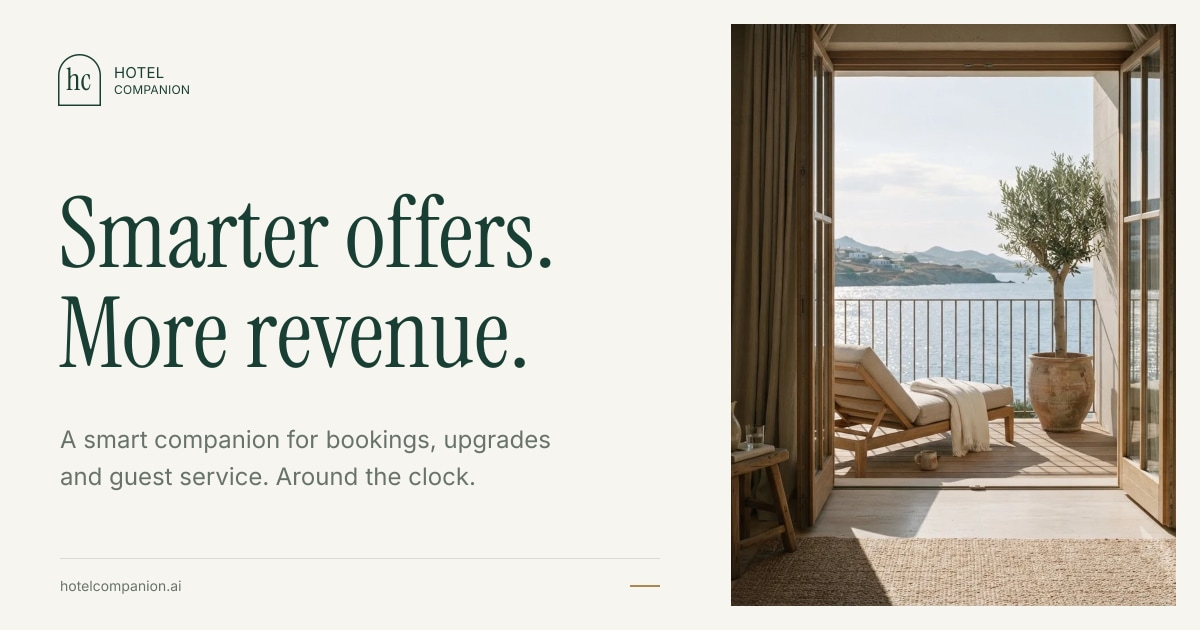
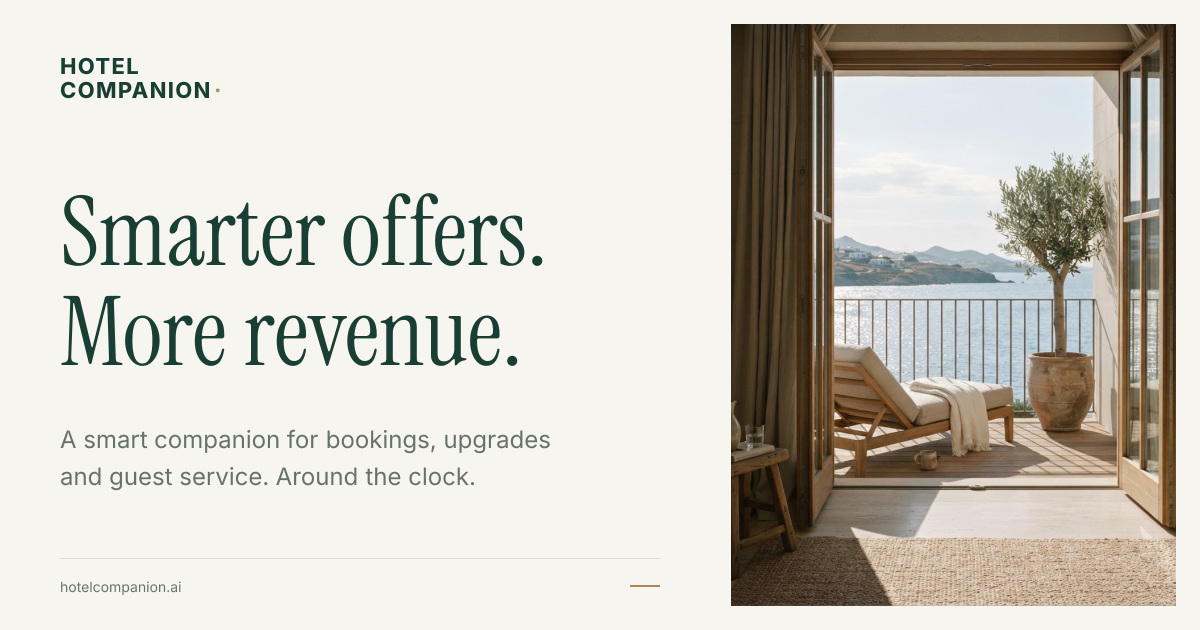
Restore original Companion identity and start guest showcase on rooms

diff --git a/src/components/site-chrome.css b/src/components/site-chrome.css
@@ -1,7 +1,7 @@
-.hc-site-header{--text:#193f35;--text-faint:#67736a;position:fixed;inset:0 0 auto;z-index:80;height:88px;color:#193f35;background:#f7f5eff5;border-bottom:1px solid #daddd1;-webkit-backdrop-filter:blur(18px);backdrop-filter:blur(18px);font-family:var(--font-sans),sans-serif;color-scheme:light}.hc-site-nav{position:relative;display:flex;align-items:center;justify-content:space-between;gap:25px;width:min(1328px,calc(100% - 80px));height:88px;margin:auto}.hc-site-header a{text-decoration:none}.hc-site-wordmark{display:inline-flex;align-items:center;gap:10px;color:#193f35;min-height:44px;flex-shrink:0}.hc-site-monogram{border:1px solid #193f35;border-radius:19px 19px 0 0;width:34px;height:40px;display:grid;place-items:center;font:400 22px var(--font-editorial),serif;letter-spacing:.04em}.hc-site-wordmark>span:last-child{font-size:11px;line-height:1.1;letter-spacing:.02em;font-weight:500}.hc-site-wordmark small{display:block;font-size:8px;margin-top:3px;letter-spacing:.02em}.hc-site-desktop-links{display:flex;align-items:center;gap:24px}.hc-site-desktop-links a{font-size:12px;color:#193f35;display:flex;align-items:center;min-height:44px;position:relative;white-space:nowrap}.hc-site-desktop-links>a:after,.hc-product-nav>a:after{content:'';position:absolute;bottom:4px;left:0;right:0;height:1px;transform:scaleX(0);transform-origin:left;background:#aa8750;transition:transform .25s}.hc-site-desktop-links a[aria-current=page]:after,.hc-site-desktop-links a:hover:after{transform:scaleX(1)}.hc-site-nav-actions{display:flex;gap:20px;align-items:center}.hc-site-demo{min-height:50px;display:inline-flex;align-items:center;justify-content:center;gap:25px;border-radius:3px;background:#193f35;color:#fffefa!important;padding:15px 22px;font-size:12px;white-space:nowrap;border:1px solid #193f35;transition:background .2s}.hc-site-demo:hover{background:#2b5346}.hc-header-language .language-toggle{border:0!important;padding:0!important;gap:3px!important}.hc-header-language .language-toggle button{padding:10px 8px!important;font-size:11px!important;border-radius:0!important;min-width:32px;min-height:44px}.hc-header-language .language-toggle button[aria-pressed=true]{background:none!important;text-decoration:underline;text-underline-offset:7px}.hc-site-menu-toggle{display:none;align-items:center;justify-content:center;width:44px;height:44px;border:1px solid #daddd1;border-radius:3px;background:transparent;color:#193f35;cursor:pointer}.hc-product-nav{display:flex;align-items:center;gap:2px}.hc-product-nav>button{display:flex;justify-content:center;align-items:center;min-width:24px;height:44px;background:none;border:0;cursor:pointer}.hc-product-nav button svg{transition:transform .2s}.hc-product-nav button[aria-expanded=true] svg{transform:rotate(180deg)}.hc-product-menu{position:absolute;top:87px;left:0;right:0;padding:0 40px 25px;background:#f7f5ef;border-bottom:1px solid #daddd1;box-shadow:0 18px 25px #193f350b}.hc-product-menu[hidden],.hc-site-mobile-menu[hidden]{display:none!important}.hc-product-menu>div{display:grid;grid-template-columns:280px 1fr;gap:50px;padding:35px 20px;max-width:1250px;margin:auto}.hc-product-menu-intro{border-right:1px solid #daddd1;padding-right:35px}.hc-product-menu-intro>small{font-size:10px;color:#67736a;letter-spacing:.04em}.hc-product-menu h2{font:400 35px/1.06 var(--font-editorial),serif;letter-spacing:-.02em;color:#193f35;margin:20px 0}.hc-product-menu h2 em{color:#aa8750;font-weight:400}.hc-product-menu-intro>a{display:flex;gap:10px;font-size:12px;align-items:center;min-height:40px}.hc-product-feature-links{display:grid;grid-template-columns:repeat(3,1fr);gap:26px}.hc-product-feature-links>a{display:flex;align-items:flex-start;gap:13px;color:#193f35}.hc-product-feature-links>a>svg{color:#67736a}.hc-product-feature-links strong{display:flex;align-items:center;gap:8px;font-size:13px;font-weight:500;line-height:1.5}.hc-product-feature-links small{display:block;color:#67736a;font-size:12px;line-height:1.7;margin-top:9px}.hc-site-mobile-menu{max-height:calc(100dvh - 74px);overflow:auto;background:#f7f5ef;padding:20px 24px 30px;border-bottom:1px solid #daddd1}.hc-site-mobile-menu>div>a{display:flex;justify-content:space-between;align-items:center;padding:15px 0;border-bottom:1px solid #daddd1;font-size:17px;color:#193f35}.hc-mobile-features{display:flex;flex-wrap:wrap;gap:0 20px;padding:10px 0}.hc-mobile-features>a{display:inline-flex;align-items:center;min-height:44px;font-size:12px;padding:9px 0;color:#67736a}.hc-menu-language{display:flex;justify-content:flex-end}.hc-site-mobile-menu>.hc-site-demo{margin-top:24px;display:flex}.hc-site-footer{background:#f7f5ef;color:#193f35;border-top:1px solid #daddd1;font-family:var(--font-sans),sans-serif}.hc-site-footer-inner{width:min(1296px,calc(100% - 112px));margin:auto;padding-block:65px 25px}.hc-site-footer-top{display:grid;grid-template-columns:.95fr 1.2fr;gap:100px}.hc-site-footer-brand>a{color:#193f35;font-size:12px;letter-spacing:.06em;text-transform:uppercase;text-decoration:none}.hc-site-footer-brand>p{font:400 52px/1.1 var(--font-editorial),serif;margin:22px 0}.hc-site-footer-brand>span{font-size:13px;color:#67736a;line-height:1.7;display:block;max-width:280px}.hc-site-footer-links{display:grid;grid-template-columns:repeat(3,1fr);gap:30px}.hc-site-footer-links h2{font:500 11px/1.4 var(--font-sans),sans-serif;text-transform:uppercase;letter-spacing:.06em;margin:0 0 20px;color:#67736a}.hc-site-footer-links ul{list-style:none;margin:0;padding:0}.hc-site-footer-links li{margin-bottom:10px}.hc-site-footer-links a{font-size:12px;color:#193f35;line-height:1.6;text-decoration:none;display:inline-block;padding-block:3px}.hc-site-footer a:hover{text-decoration:underline;text-underline-offset:4px}.hc-site-footer-bottom{display:flex;align-items:center;justify-content:space-between;gap:20px;border-top:1px solid #daddd1;margin-top:50px;padding-top:25px;font-size:10px;color:#67736a}.hc-site-footer-bottom p{margin:0}.hc-site-footer-bottom a{color:inherit}
+.hc-site-header{--text:#193f35;--text-faint:#67736a;position:fixed;inset:0 0 auto;z-index:80;height:88px;color:#193f35;background:#f7f5eff5;border-bottom:1px solid #daddd1;-webkit-backdrop-filter:blur(18px);backdrop-filter:blur(18px);font-family:var(--font-sans),sans-serif;color-scheme:light}.hc-site-nav{position:relative;display:flex;align-items:center;justify-content:space-between;gap:25px;width:min(1328px,calc(100% - 80px));height:88px;margin:auto}.hc-site-header a{text-decoration:none}.hc-site-wordmark{display:inline-flex;align-items:center;color:#193f35;min-height:44px;flex-shrink:0}.hc-site-wordmark>.hc-site-logo{display:block;font-family:var(--font-sans),Inter,Arial,sans-serif;font-size:17px;font-weight:750;letter-spacing:.06em;line-height:1.08;font-synthesis:none}.hc-site-logo>span{color:#ac9254}.hc-site-desktop-links{display:flex;align-items:center;gap:24px}.hc-site-desktop-links a{font-size:12px;color:#193f35;display:flex;align-items:center;min-height:44px;position:relative;white-space:nowrap}.hc-site-desktop-links>a:after,.hc-product-nav>a:after{content:'';position:absolute;bottom:4px;left:0;right:0;height:1px;transform:scaleX(0);transform-origin:left;background:#aa8750;transition:transform .25s}.hc-site-desktop-links a[aria-current=page]:after,.hc-site-desktop-links a:hover:after{transform:scaleX(1)}.hc-site-nav-actions{display:flex;gap:20px;align-items:center}.hc-site-demo{min-height:50px;display:inline-flex;align-items:center;justify-content:center;gap:25px;border-radius:3px;background:#193f35;color:#fffefa!important;padding:15px 22px;font-size:12px;white-space:nowrap;border:1px solid #193f35;transition:background .2s}.hc-site-demo:hover{background:#2b5346}.hc-header-language .language-toggle{border:0!important;padding:0!important;gap:3px!important}.hc-header-language .language-toggle button{padding:10px 8px!important;font-size:11px!important;border-radius:0!important;min-width:32px;min-height:44px}.hc-header-language .language-toggle button[aria-pressed=true]{background:none!important;text-decoration:underline;text-underline-offset:7px}.hc-site-menu-toggle{display:none;align-items:center;justify-content:center;width:44px;height:44px;border:1px solid #daddd1;border-radius:3px;background:transparent;color:#193f35;cursor:pointer}.hc-product-nav{display:flex;align-items:center;gap:2px}.hc-product-nav>button{display:flex;justify-content:center;align-items:center;min-width:24px;height:44px;background:none;border:0;cursor:pointer}.hc-product-nav button svg{transition:transform .2s}.hc-product-nav button[aria-expanded=true] svg{transform:rotate(180deg)}.hc-product-menu{position:absolute;top:87px;left:0;right:0;padding:0 40px 25px;background:#f7f5ef;border-bottom:1px solid #daddd1;box-shadow:0 18px 25px #193f350b}.hc-product-menu[hidden],.hc-site-mobile-menu[hidden]{display:none!important}.hc-product-menu>div{display:grid;grid-template-columns:280px 1fr;gap:50px;padding:35px 20px;max-width:1250px;margin:auto}.hc-product-menu-intro{border-right:1px solid #daddd1;padding-right:35px}.hc-product-menu-intro>small{font-size:10px;color:#67736a;letter-spacing:.04em}.hc-product-menu h2{font:400 35px/1.06 var(--font-editorial),serif;letter-spacing:-.02em;color:#193f35;margin:20px 0}.hc-product-menu h2 em{color:#aa8750;font-weight:400}.hc-product-menu-intro>a{display:flex;gap:10px;font-size:12px;align-items:center;min-height:40px}.hc-product-feature-links{display:grid;grid-template-columns:repeat(3,1fr);gap:26px}.hc-product-feature-links>a{display:flex;align-items:flex-start;gap:13px;color:#193f35}.hc-product-feature-links>a>svg{color:#67736a}.hc-product-feature-links strong{display:flex;align-items:center;gap:8px;font-size:13px;font-weight:500;line-height:1.5}.hc-product-feature-links small{display:block;color:#67736a;font-size:12px;line-height:1.7;margin-top:9px}.hc-site-mobile-menu{max-height:calc(100dvh - 74px);overflow:auto;background:#f7f5ef;padding:20px 24px 30px;border-bottom:1px solid #daddd1}.hc-site-mobile-menu>div>a{display:flex;justify-content:space-between;align-items:center;padding:15px 0;border-bottom:1px solid #daddd1;font-size:17px;color:#193f35}.hc-mobile-features{display:flex;flex-wrap:wrap;gap:0 20px;padding:10px 0}.hc-mobile-features>a{display:inline-flex;align-items:center;min-height:44px;font-size:12px;padding:9px 0;color:#67736a}.hc-menu-language{display:flex;justify-content:flex-end}.hc-site-mobile-menu>.hc-site-demo{margin-top:24px;display:flex}.hc-site-footer{background:#f7f5ef;color:#193f35;border-top:1px solid #daddd1;font-family:var(--font-sans),sans-serif}.hc-site-footer-inner{width:min(1296px,calc(100% - 112px));margin:auto;padding-block:65px 25px}.hc-site-footer-top{display:grid;grid-template-columns:.95fr 1.2fr;gap:100px}.hc-site-footer-brand>a{color:#193f35;font-size:12px;letter-spacing:.06em;text-transform:uppercase;text-decoration:none}.hc-site-footer-brand>p{font:400 52px/1.1 var(--font-editorial),serif;margin:22px 0}.hc-site-footer-brand>span{font-size:13px;color:#67736a;line-height:1.7;display:block;max-width:280px}.hc-site-footer-links{display:grid;grid-template-columns:repeat(3,1fr);gap:30px}.hc-site-footer-links h2{font:500 11px/1.4 var(--font-sans),sans-serif;text-transform:uppercase;letter-spacing:.06em;margin:0 0 20px;color:#67736a}.hc-site-footer-links ul{list-style:none;margin:0;padding:0}.hc-site-footer-links li{margin-bottom:10px}.hc-site-footer-links a{font-size:12px;color:#193f35;line-height:1.6;text-decoration:none;display:inline-block;padding-block:3px}.hc-site-footer a:hover{text-decoration:underline;text-underline-offset:4px}.hc-site-footer-bottom{display:flex;align-items:center;justify-content:space-between;gap:20px;border-top:1px solid #daddd1;margin-top:50px;padding-top:25px;font-size:10px;color:#67736a}.hc-site-footer-bottom p{margin:0}.hc-site-footer-bottom a{color:inherit}
 @media(max-width:1200px){.hc-site-desktop-links{gap:16px}.hc-site-nav{width:calc(100% - 48px);gap:16px}.hc-site-nav-actions{gap:10px}.hc-site-demo{padding-inline:15px;gap:15px}.hc-site-desktop-links a{font-size:11px}.hc-header-language .language-toggle button{padding-inline:5px!important}.hc-site-footer-top{gap:60px}}
 @media(max-width:1020px){.hc-site-desktop-links,.hc-product-menu{display:none!important}.hc-site-menu-toggle{display:flex}.hc-site-nav{height:74px}.hc-site-header{height:74px}.at-page-root{padding-top:74px}.hc-site-nav-actions{gap:18px}.hc-site-mobile-menu .language-toggle button{color:#193f35!important}.hc-site-footer-top{grid-template-columns:.8fr 1fr;gap:40px}.hc-site-footer-brand>p{font-size:42px}}
 @media(min-width:1021px){.hc-site-mobile-menu{display:none!important}}
-@media(max-width:650px){.hc-site-nav{width:calc(100% - 40px)}.hc-site-wordmark{gap:8px}.hc-site-monogram{width:30px;height:36px;font-size:20px}.hc-site-wordmark>span:last-child{font-size:10px}.hc-site-wordmark small{font-size:7px}.hc-site-demo{font-size:11px;min-height:44px;padding:12px 13px;gap:10px}.hc-site-demo svg{display:none}.hc-site-nav-actions{gap:10px}.hc-header-language{display:none}.hc-site-footer-inner{width:calc(100% - 48px);padding-block:45px 24px}.hc-site-footer-top{grid-template-columns:1fr;gap:40px}.hc-site-footer-brand>p{font-size:44px}.hc-site-footer-links{gap:20px}.hc-site-footer-links a{font-size:12px;min-height:44px;display:flex;align-items:center}.hc-site-footer-links li{margin-bottom:0}.hc-site-footer-bottom a{display:inline-flex;align-items:center;min-height:44px}.hc-site-footer-bottom{margin-top:30px;align-items:flex-start;gap:13px;flex-wrap:wrap;line-height:1.7}}
+@media(max-width:650px){.hc-site-nav{width:calc(100% - 40px)}.hc-site-wordmark>.hc-site-logo{font-size:14px}.hc-site-demo{font-size:11px;min-height:44px;padding:12px 13px;gap:10px}.hc-site-demo svg{display:none}.hc-site-nav-actions{gap:10px}.hc-header-language{display:none}.hc-site-footer-inner{width:calc(100% - 48px);padding-block:45px 24px}.hc-site-footer-top{grid-template-columns:1fr;gap:40px}.hc-site-footer-brand>p{font-size:44px}.hc-site-footer-links{gap:20px}.hc-site-footer-links a{font-size:12px;min-height:44px;display:flex;align-items:center}.hc-site-footer-links li{margin-bottom:0}.hc-site-footer-bottom a{display:inline-flex;align-items:center;min-height:44px}.hc-site-footer-bottom{margin-top:30px;align-items:flex-start;gap:13px;flex-wrap:wrap;line-height:1.7}}
 
 .hc-site-footer-inner.hc-site-footer-legal{padding-top:0}.hc-site-footer-legal .hc-site-footer-bottom{margin-top:0}

diff --git a/src/components/atelier/Atelier.tsx b/src/components/atelier/Atelier.tsx
@@ -32,7 +32,7 @@ export function Conversation({compact=false,scenario=0}:{compact?:boolean;scenar
   [t('“We loved the room with the terrace last time. Could we return?”','«Nos encantó la habitación con terraza la última vez. ¿Podemos volver?»'),t('Welcome back. Let’s start with what you enjoyed, then find the right room for your new dates.','Bienvenidos de nuevo. Partamos de lo que disfrutaron y busquemos la habitación adecuada para sus nuevas fechas.'),t('A familiar welcome. A new stay.','Una bienvenida familiar. Una nueva estancia.')],
  ][scenario]
  return <div className={`at-conversation ${compact?'at-conversation-compact':''}`} key={scenario}>
-  <div className="at-conversation-brand"><span className="at-seal">hc</span><div>{t('Your Hotel Companion','Tu Hotel Companion')}<small><i/>{t('Here for your stay','Aquí para tu estancia')}</small></div><MessageCircle size={17}/></div>
+  <div className="at-conversation-brand"><span className="at-seal at-brand-seal" aria-hidden="true"><Image src="/icon.svg" alt="" width={33} height={33}/></span><div>{t('Your Hotel Companion','Tu Hotel Companion')}<small><i/>{t('Here for your stay','Aquí para tu estancia')}</small></div><MessageCircle size={17}/></div>
   <div className="at-message at-message-guest">{lines[0]}</div>
   <div className="at-message at-message-companion">{lines[1]}</div>
   <div className="at-conversation-result"><Sparkles size={15}/><span>{lines[2]}</span><ArrowUpRight size={14}/></div>
@@ -44,7 +44,7 @@ export function Benefits(){const t=useText();const items=[
  [t('Ownership at every step','Responsables en cada paso'),t('Keep requests, context and follow-through together.','Mantén juntos las solicitudes, el contexto y el seguimiento.')],
  ];return <section className="at-benefits at-wrap" aria-label={t('What changes for your hotel','Qué cambia para tu hotel')}>{items.map(([title,body],i)=><div key={title}><h2><span>0{i+1}</span>{title}</h2><p>{body}</p></div>)}</section>}
 
-export function GuestShowcase(){const t=useText(),{lang}=useLang(),[active,setActive]=useState(1),[watching,setWatching]=useState(false);const selectStory=(index:number)=>{setActive(index);setWatching(false)};const watchRoomJourney=()=>{setActive(0);setWatching(true);requestAnimationFrame(()=>document.getElementById('at-guest-panel')?.scrollIntoView({block:'start',behavior:window.matchMedia('(prefers-reduced-motion: reduce)').matches?'instant':'smooth'}))};const entries=[
+export function GuestShowcase(){const t=useText(),{lang}=useLang(),[active,setActive]=useState(0),[watching,setWatching]=useState(false);const selectStory=(index:number)=>{setActive(index);setWatching(false)};const watchRoomJourney=()=>{setActive(0);setWatching(true);requestAnimationFrame(()=>document.getElementById('at-guest-panel')?.scrollIntoView({block:'start',behavior:window.matchMedia('(prefers-reduced-motion: reduce)').matches?'instant':'smooth'}))};const entries=[
  {name:t('Rooms & suites','Habitaciones y suites'),title:t('A room that feels\nlike yours.','Una habitación\na tu medida.'),image:photos.hero},
  {name:t('Dining','Gastronomía'),title:t('Not just a table.\nThe right table.','Más que una mesa.\nLa mesa ideal.'),image:photos.dining},
  {name:t('Wellness','Bienestar'),title:t('A little time.\nEntirely yours.','Un poco de tiempo.\nSolo para ti.'),image:'/assets/ui/spa-1.webp'},
@@ -84,7 +84,7 @@ export function MemorySection(){const t=useText(),{lang}=useLang();return <secti
 
 export function ControlSection(){const t=useText();return <section className="at-section at-control at-wrap" id="team-control"><SectionHead label={t('Behind every great stay','Detrás de una gran estancia')} title={<>{t('The conversation flows.','La conversación fluye.')}<br/>{t('Your team stays in control.','Tu equipo conserva el control.')}</>} body={t('From first request to final confirmation, keep the context, ownership and follow-through with the people who deliver the stay.','Desde la primera solicitud hasta la confirmación, el contexto y seguimiento están con quienes hacen posible la estancia.')}/><div className="at-control-grid"><div className="at-control-screen"><Image src="/assets/experience/sales-current-staff-request.jpg" alt={t('Companion Control: request ownership, status and activity history','Companion Control: responsable, estado e historial de solicitudes')} width={1422} height={1000} sizes="(max-width:800px) 100vw, 65vw"/></div><ol className="at-step-list">{[[t('Your hotel sets the offer.','Tu hotel define la oferta.'),t('Decide what can be recommended, where and on what terms.','Decide qué recomendar, dónde y bajo qué condiciones.')],[t('Every request has an owner.','Cada solicitud tiene responsable.'),t('The right team receives the guest’s request and the conversation behind it.','El equipo recibe la solicitud y la conversación que la explica.')],[t('Service has a follow-through.','El servicio tiene seguimiento.'),t('See what is in progress, what needs attention and what has been resolved.','Ve qué está en proceso, qué necesita atención y qué se resolvió.')]].map(([title,body],i)=><li key={title}><span>0{i+1}</span><div><h3>{title}</h3><p>{body}</p></div></li>)}</ol></div></section>}
 
-export function Connections(){const t=useText();return <section className="at-section at-sage" id="connections"><div className="at-wrap at-split"><div><Label>{t('Connections','Conexiones')}</Label><h2>{t('Fit your operation.','Encaja en tu operación.')}<br/><em>{t('Keep your standards.','Conserva tus estándares.')}</em></h2><p className="at-lead">{t('Begin with clear team ownership. Connect the systems that make the guest journey more useful, in a rollout shaped around your hotel.','Empieza con responsables claros. Conecta los sistemas que mejoran la experiencia, con una implementación adaptada a tu hotel.')}</p><Link href="/implementation#integration-scope" className="at-text-link">{t('Explore setup & integrations','Explora configuración e integraciones')}<ArrowUpRight size={16}/></Link></div><div className="at-connection-map"><div className="at-map-channels"><span>{t('Telephone','Teléfono')}</span><span>{t('Web & mobile','Web y móvil')}</span><span>{t('In-room tablet','Tablet')}</span></div><ArrowDown/><div className="at-map-hub"><span className="at-seal">hc</span><h3>Hotel Companion</h3><small>{t('Context · Requests · Rules','Contexto · Solicitudes · Reglas')}</small></div><div className="at-map-branches"><div><ArrowDown/><Users/><h3>{t('Hotel teams','Equipos del hotel')}</h3><p>{t('Own, review and fulfil requests in Companion Control.','Gestionan, revisan y atienden solicitudes en Companion Control.')}</p></div><div><ArrowDown/><ShieldCheck/><h3>{t('Connected systems','Sistemas conectados')}</h3><p>{t('PMS, POS and payments, connected to the agreed scope.','PMS, POS y pagos conectados según el alcance acordado.')}</p></div></div></div></div></section>}
+export function Connections(){const t=useText();return <section className="at-section at-sage" id="connections"><div className="at-wrap at-split"><div><Label>{t('Connections','Conexiones')}</Label><h2>{t('Fit your operation.','Encaja en tu operación.')}<br/><em>{t('Keep your standards.','Conserva tus estándares.')}</em></h2><p className="at-lead">{t('Begin with clear team ownership. Connect the systems that make the guest journey more useful, in a rollout shaped around your hotel.','Empieza con responsables claros. Conecta los sistemas que mejoran la experiencia, con una implementación adaptada a tu hotel.')}</p><Link href="/implementation#integration-scope" className="at-text-link">{t('Explore setup & integrations','Explora configuración e integraciones')}<ArrowUpRight size={16}/></Link></div><div className="at-connection-map"><div className="at-map-channels"><span>{t('Telephone','Teléfono')}</span><span>{t('Web & mobile','Web y móvil')}</span><span>{t('In-room tablet','Tablet')}</span></div><ArrowDown/><div className="at-map-hub"><span className="at-seal at-brand-seal" aria-hidden="true"><Image src="/icon.svg" alt="" width={33} height={33}/></span><h3>Hotel Companion</h3><small>{t('Context · Requests · Rules','Contexto · Solicitudes · Reglas')}</small></div><div className="at-map-branches"><div><ArrowDown/><Users/><h3>{t('Hotel teams','Equipos del hotel')}</h3><p>{t('Own, review and fulfil requests in Companion Control.','Gestionan, revisan y atienden solicitudes en Companion Control.')}</p></div><div><ArrowDown/><ShieldCheck/><h3>{t('Connected systems','Sistemas conectados')}</h3><p>{t('PMS, POS and payments, connected to the agreed scope.','PMS, POS y pagos conectados según el alcance acordado.')}</p></div></div></div></div></section>}
 
 export function SetupSection(){const t=useText();return <section className="at-section at-wrap" id="setup"><SectionHead label={t('A considered beginning','Un inicio bien pensado')} title={<>{t('Built around your hotel.','Adaptado a tu hotel.')}<br/>{t('Rehearsed with your team.','Ensayado con tu equipo.')}</>} body={t('A practical path from a first conversation to a measured pilot.','Un camino práctico de la primera conversación a un piloto medible.')}/><ol className="at-setup-steps">{[[t('Share your hotel','Comparte tu hotel'),t('Hotel and destination knowledge, rooms, services and prices.','Conocimiento del hotel y destino, habitaciones, servicios y precios.')],[t('Set the rules','Define las reglas'),t('Agree offers, channels and the people responsible for every next step.','Acuerda ofertas, canales y responsables de cada siguiente paso.')],[t('Try it together','Pruébalo con nosotros'),t('Rehearse real guest requests and confirmations with your team.','Ensaya solicitudes y confirmaciones reales con tu equipo.')],[t('Launch & measure','Lanza y mide'),t('Begin at one hotel. Review results before expanding.','Empieza en un hotel. Revisa resultados antes de ampliar.')]].map(([title,body],i)=><li key={title}><span>0{i+1}</span><h3>{title}</h3><p>{body}</p></li>)}</ol><div className="at-setup-foot"><div><strong>{t('Initial value in 1–3 weeks','Valor inicial en 1–3 semanas')}</strong><p>{t('Hotel + destination knowledge. Guest communication. Team workflows.','Conocimiento del hotel y destino. Comunicación. Flujos del equipo.')}</p></div><Link href="/implementation" className="at-text-link">{t('See the rollout plan','Ver el plan de implementación')}<ArrowUpRight size={17}/></Link></div><p className="at-note">{t('Launch depends on readiness and scope. PMS, POS and payment connections follow in stages, subject to system access and provider requirements.','El lanzamiento depende del alcance y preparación. Las conexiones PMS, POS y pagos siguen por etapas según accesos y requisitos del proveedor.')}</p></section>}
 

diff --git a/src/components/site-nav.tsx b/src/components/site-nav.tsx
@@ -33,7 +33,7 @@ export function SiteNav({appearance='light'}:{appearance?:'light'|'dark'}){
  },[open])
  return <header ref={header} className="hc-site-header" data-page-appearance={appearance} data-menu-open={open} onBlur={e=>{if(!e.currentTarget.contains(e.relatedTarget))setProduct(false)}}>
  <nav className="hc-site-nav" aria-label={c.navLabel}>
- <Link href="/" className="hc-site-wordmark" onClick={close} aria-label="Hotel Companion home"><span className="hc-site-monogram">hc</span><span>HOTEL<small>COMPANION</small></span></Link>
+ <Link href="/" className="hc-site-wordmark" onClick={close} aria-label="Hotel Companion home"><span className="hc-site-logo" aria-hidden="true">HOTEL<br/>COMPANION<span>·</span></span></Link>
  <div className="hc-site-desktop-links"><div className="hc-product-nav" onMouseEnter={()=>setProduct(true)}><Link href="/platform" aria-current={path==='/platform'?'page':undefined} onClick={close}>{c.links[0].label}</Link><button ref={productToggle} type="button" aria-label={t('Explore product features','Explorar funciones del producto')} aria-expanded={product} aria-controls="hc-product-menu" onClick={()=>setProduct(v=>!v)}><ChevronDown size={12}/></button></div>{c.links.slice(1).map(link=><Link key={link.href} href={link.href} aria-current={path===link.href?'page':undefined} onClick={close} onMouseEnter={()=>setProduct(false)}>{link.label}</Link>)}</div>
  <div className="hc-site-nav-actions"><div className="hc-header-language"><LanguageToggle/></div><Link href="/demo" className="hc-site-demo hc-site-desktop-cta" onClick={close}>{c.demo}<ArrowUpRight size={15}/></Link><button ref={toggle} type="button" className="hc-site-menu-toggle" aria-label={open?c.close:c.open} aria-expanded={open} aria-controls="hc-site-mobile-menu" onClick={()=>setOpen(v=>!v)}>{open?<X size={22}/>:<Menu size={22}/>}</button></div>
  </nav>

diff --git a/src/components/atelier/ProductPage.tsx b/src/components/atelier/ProductPage.tsx
@@ -27,7 +27,7 @@ function ConnectionStory() {
   return <div className="ap-connections">
     <div className="ap-connection-inputs"><span><MessageCircle size={17}/>{t('Guest conversation', 'Conversación del huésped')}</span><span><Bookmark size={17}/>{t('Useful context', 'Contexto útil')}</span><span><Check size={17}/>{t('Your hotel’s rules', 'Las reglas de tu hotel')}</span></div>
     <ArrowDown className="ap-connector" size={23}/>
-    <div className="ap-connection-hub"><span className="at-seal">hc</span><h3>Hotel Companion</h3><p>{t('The right next step, with the context to take it.', 'El siguiente paso, con el contexto para darlo.')}</p></div>
+    <div className="ap-connection-hub"><span className="at-seal at-brand-seal" aria-hidden="true"><Image src="/icon.svg" alt="" width={33} height={33}/></span><h3>Hotel Companion</h3><p>{t('The right next step, with the context to take it.', 'El siguiente paso, con el contexto para darlo.')}</p></div>
     <div className="ap-connection-branches">
       <div><ArrowDown size={22}/><Users size={24}/><h4>{t('Your people', 'Tu equipo')}</h4><p>{t('Requests reach the right team. Ownership, updates and resolution stay together.', 'Las solicitudes llegan al equipo indicado. Responsables, avances y resolución permanecen juntos.')}</p></div>
       <div><ArrowDown size={22}/><Globe2 size={24}/><h4>{t('Your systems', 'Tus sistemas')}</h4><p>{t('PMS, POS and payment connections support the actions agreed for your hotel.', 'Las conexiones PMS, POS y pagos respaldan las acciones acordadas para tu hotel.')}</p></div>

diff --git a/src/components/site-footer.tsx b/src/components/site-footer.tsx
@@ -12,7 +12,7 @@ export function SiteFooter() {
     <footer className="hc-site-footer">
       <div className="hc-site-footer-inner">
         <div className="hc-site-footer-top">
-          <div className="hc-site-footer-brand"><Link prefetch={false} href="/">Hotel Companion</Link><p>{c.signature}</p><span>{c.footerSummary}</span></div>
+          <div className="hc-site-footer-brand"><Link prefetch={false} href="/" className="hc-site-wordmark" aria-label="Hotel Companion"><span className="hc-site-logo" aria-hidden="true">HOTEL<br/>COMPANION<span>·</span></span></Link><p>{c.signature}</p><span>{c.footerSummary}</span></div>
           <div className="hc-site-footer-links">
             {c.footer.map(group => <div key={group.title}><h2>{group.title}</h2><ul>{group.links.map(link => <li key={link.href}><Link prefetch={false} href={link.href}>{link.label}</Link></li>)}</ul></div>)}
           </div>

diff --git a/src/components/v5/PlatformThread.tsx b/src/components/v5/PlatformThread.tsx
@@ -1,6 +1,7 @@
 'use client'
 
 import { useId } from 'react'
+import Image from 'next/image'
 import { useLang } from '@/lib/i18n/LanguageContext'
 import styles from './PlatformThread.module.css'
 
@@ -147,7 +148,7 @@ export function PlatformThread({ className = '' }: PlatformThreadProps) {
       <div className={styles.workspace}>
         <header className={styles.chrome}>
           <div className={styles.productMark}>
-            <span className={styles.monogram} aria-hidden="true">HC</span>
+            <span className={styles.monogram} aria-hidden="true"><Image src="/icon.svg" alt="" width={34} height={34}/></span>
             <span><strong>{c.product}</strong><small>{c.mode}</small></span>
           </div>
           <div className={styles.property}>{c.property}</div>

diff --git a/src/components/atelier/atelier.css b/src/components/atelier/atelier.css
@@ -57,3 +57,6 @@
 .ag-care-action .at-button{white-space:normal;text-align:left;line-height:1.5}
 .ag-care-action .at-button svg{flex-shrink:0}
 @media(max-width:750px){.at-context-close{align-items:flex-start;flex-direction:column;gap:25px;padding-block:40px}.at-context-close h2{font-size:36px}.at-context-close p{font-size:14px}.ag-care-action{grid-column:1}.at-rollout-action{margin-top:24px}}
+
+/* Original compact H-and-dot identity; keep surrounding conversation geometry. */
+.at-brand-seal{background:transparent;border-radius:8px;line-height:0}.at-brand-seal img{display:block;width:100%;height:100%}

diff --git a/src/lib/siteMetadata.ts b/src/lib/siteMetadata.ts
@@ -3,7 +3,7 @@ import type { Metadata } from 'next'
 const SITE_URL = 'https://www.hotelcompanion.ai'
 export function getSocialImage(lang: 'en' | 'es' = 'en') {
   return {
-    url: `${SITE_URL}/og/hotel-companion-smarter-offers-${lang}.png`,
+    url: `${SITE_URL}/og/hotel-companion-smarter-offers-${lang}.png?v=wordmark-20261025`,
     width: 1200,
     height: 630,
     type: 'image/png',

diff --git a/src/components/v5/PlatformThread.module.css b/src/components/v5/PlatformThread.module.css
@@ -123,7 +123,9 @@
   height: 34px;
   flex: 0 0 auto;
   place-items: center;
-  border: 1px solid rgba(213, 120, 69, .52);
+  border: 0;
+  border-radius: 8px;
+  overflow: hidden;
   color: var(--thread-accent-soft);
   font-family: var(--font-editorial), Georgia, serif;
   font-size: .85rem;
